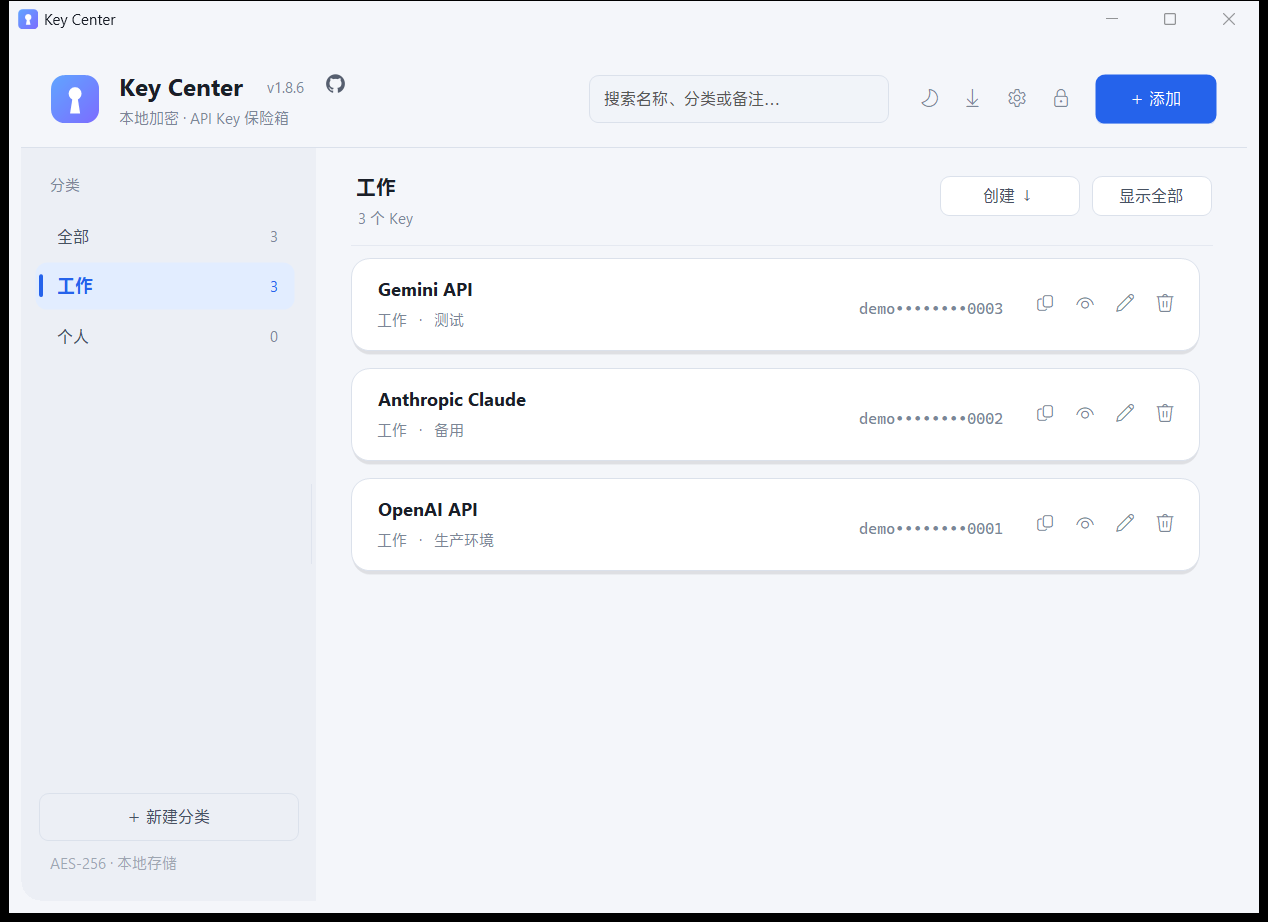
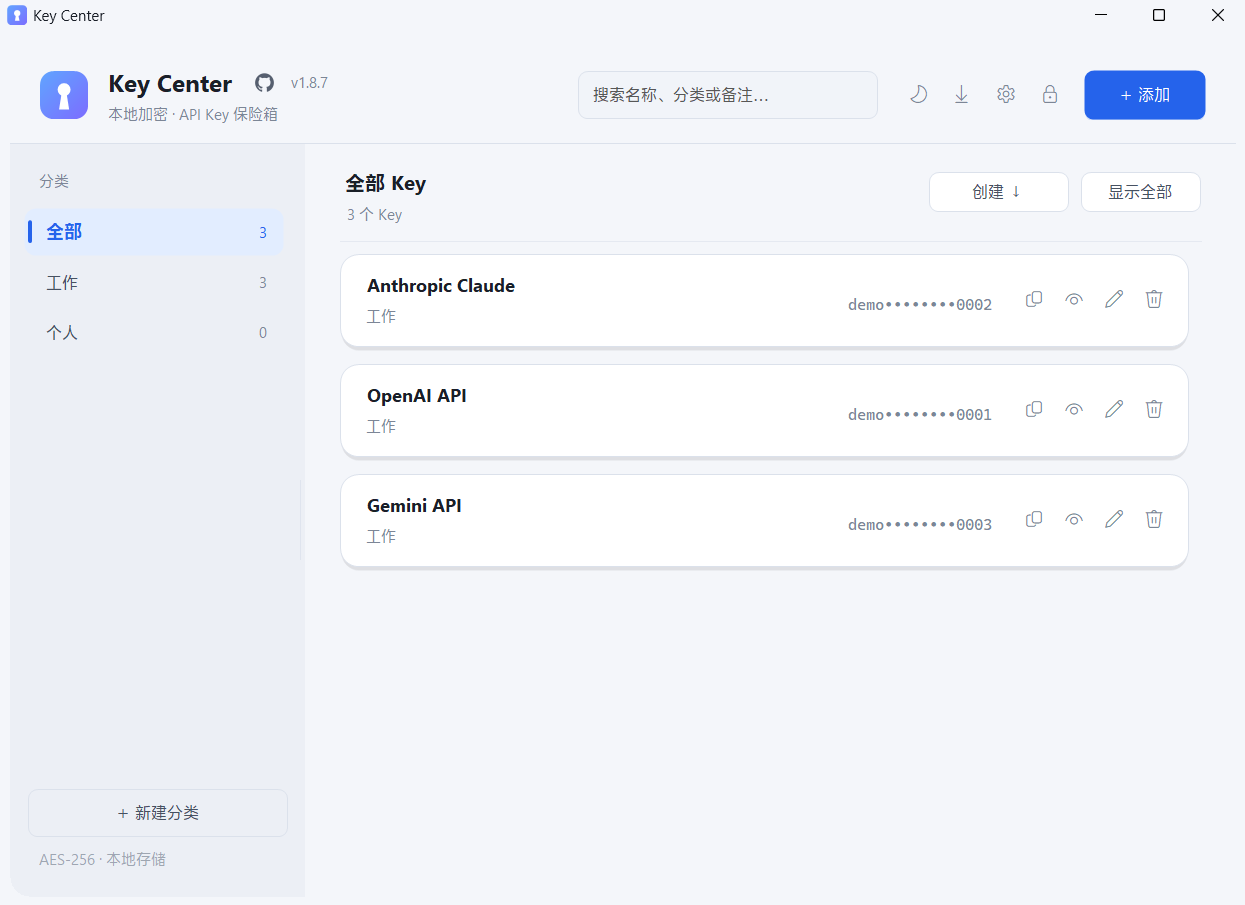
release: prepare 1.8.7 (dialog stability, header alignment, docs)

diff --git a/Dialogs.cs b/Dialogs.cs
@@ -176,6 +176,16 @@ namespace KeyCenter
         {
             // 由 UpdateLayeredWindow 负责绘制
         }
+
+        protected override void Dispose(bool disposing)
+        {
+            if (disposing && canvas != null)
+            {
+                canvas.Dispose();
+                canvas = null;
+            }
+            base.Dispose(disposing);
+        }
     }
 
     internal class DarkForm : Form
@@ -335,24 +345,6 @@ namespace KeyCenter
                 }
                 return cp;
             }
-        }
-
-        [System.Runtime.InteropServices.StructLayout(System.Runtime.InteropServices.LayoutKind.Sequential)]
-        private struct RECT
-        {
-            public int Left;
-            public int Top;
-            public int Right;
-            public int Bottom;
-        }
-
-        [System.Runtime.InteropServices.StructLayout(System.Runtime.InteropServices.LayoutKind.Sequential)]
-        private struct NCCALCSIZE_PARAMS
-        {
-            public RECT rgrc0;
-            public RECT rgrc1;
-            public RECT rgrc2;
-            public IntPtr lppos;
         }
 
         protected override void WndProc(ref Message m)

diff --git a/MainForm.cs b/MainForm.cs
@@ -939,9 +939,15 @@ namespace KeyCenter
             logo.SetBounds(T.Px(24), logoY, T.Px(38), T.Px(38));
             int titleW = TextRenderer.MeasureText(lblApp.Text, lblApp.Font).Width + T.Px(2);
             lblApp.SetBounds(T.Px(74), blockTop, titleW, T.Px(32));
-            int versionX = lblApp.Right + T.Px(8);
-            lblVersion.SetBounds(versionX, blockTop + T.Px(8), T.Px(46), T.Px(18));
-            githubBtn.SetBounds(versionX + T.Px(48), blockTop + T.Px(4), T.Px(20), T.Px(20));
+
+            // GitHub 图标紧跟标题，版本号放在图标右侧；三者按标题垂直中心对齐。
+            int titleCenterY = blockTop + T.Px(16);
+            int ghSize = T.Px(20);
+            int ghX = lblApp.Right + T.Px(8);
+            githubBtn.SetBounds(ghX, titleCenterY - ghSize / 2, ghSize, ghSize);
+            int versionH = T.Px(18);
+            int versionX = githubBtn.Right + T.Px(8);
+            lblVersion.SetBounds(versionX, titleCenterY - versionH / 2, T.Px(46), versionH);
             lblSub.SetBounds(T.Px(75), blockTop + T.Px(33), T.Px(330), T.Px(18));
 
             int right = header.Width - T.Px(24);

diff --git a/Program.cs b/Program.cs
@@ -11,8 +11,8 @@ using System.Windows.Forms;
 [assembly: AssemblyDescription("便携式 API Key 保险箱")]
 [assembly: AssemblyProduct("Key Center")]
 [assembly: AssemblyCopyright("Key Center")]
-[assembly: AssemblyVersion("1.8.6.0")]
-[assembly: AssemblyFileVersion("1.8.6.0")]
+[assembly: AssemblyVersion("1.8.7.0")]
+[assembly: AssemblyFileVersion("1.8.7.0")]
 
 namespace KeyCenter
 {

diff --git a/I18n.cs b/I18n.cs
@@ -21,7 +21,7 @@ namespace KeyCenter
                     Version v = Assembly.GetExecutingAssembly().GetName().Version;
                     return "v" + v.Major + "." + v.Minor + "." + v.Build;
                 }
-                catch (Exception) { return "v1.8.6"; }
+                catch (Exception) { return "v1.8.7"; }
             }
         }
 

diff --git a/CHANGELOG.md b/CHANGELOG.md
@@ -3,6 +3,20 @@
 记录每个公开版本的变更，最新版本在最上方。版本号遵循 [语义化版本](https://semver.org/lang/zh-CN/)。
 Every public release, newest first. Versioning follows [Semantic Versioning](https://semver.org/).
 
+## 1.8.7 — 弹窗稳定性与细节修复 / Dialog stability & detail fixes
+
+### 更新内容：
+
+- 弹窗失焦稳定性：修复部分弹窗失焦后出现系统原生标题栏、灰色边框和反复闪烁的问题；Windows 11 使用原生 DWM 框架、圆角与阴影，Windows 10 保留兼容回退；
+- 圆角与阴影收口：移除 Windows 11 下弹窗 Region 裁剪与独立阴影窗口的叠加，消除圆角之外的直角底残留和矩形阴影底；
+- 列表细节：修复 Key 详情卡片右侧被滚动条遮挡、卡片圆角外白色底残留，以及关闭弹窗后列表卡片残留蓝色悬停边框的问题。
+
+### Highlights
+
+- Dialog focus stability: Fixed dialogs showing a native system title bar, gray frame and repeated flicker after losing focus; Windows 11 now uses the native DWM frame, rounded corners and shadow, with a Windows 10 compatibility fallback.
+- Rounded corners and shadow cleanup: Removed the overlapping Win11 region clipping and standalone shadow window, eliminating square residues outside rounded corners and rectangular shadow backgrounds.
+- List details: Fixed the scrollbar covering the right side of Key detail cards, white square residues outside card corners, and stuck blue hover borders on list cards after closing dialogs.
+
 ## 1.8.6 — 窗口质感与交互细节 / Window polish & interaction details
 
 ### 更新内容：

diff --git a/README.en.md b/README.en.md
@@ -81,7 +81,7 @@ No account, no cloud sync, no installer, no background service. One portable exe
 
 ### Version and project link
 
-- The current version (for example `v1.8.6`) and the official GitHub icon appear to the right of the app name;
+- The current version (for example `v1.8.7`) and the official GitHub icon appear to the right of the app name;
 - Click the version to open the [Releases](https://github.com/verneuil/KeyCenter/releases) page;
 - Click the GitHub icon to open the repository — useful for source, issues and downloads.
 

diff --git a/README.md b/README.md
@@ -81,7 +81,7 @@ Key Center 只做一件事：把你散落在各个软件、项目和终端里的
 
 ### 版本与项目入口
 
-- 主界面软件名称右侧显示当前版本号（例如 `v1.8.6`）和 GitHub 官方图标；
+- 主界面软件名称右侧显示当前版本号（例如 `v1.8.7`）和 GitHub 官方图标；
 - 点击版本号打开 [Releases](https://github.com/verneuil/KeyCenter/releases) 页面，查看最新版本和发布记录；
 - 点击 GitHub 图标打开仓库首页，方便查看源码、反馈问题和下载。
 

diff --git a/tests/ui/README.md b/tests/ui/README.md
@@ -39,8 +39,8 @@ try {
     $edits = Get-KcChildWindows -Hwnd $win.Handle |
         Where-Object { $_.Class -match 'EDIT' }
     if ($edits.Count -ge 2) {
-        Set-KcText -Hwnd $edits[0].Handle -Text '235711'
-        Set-KcText -Hwnd $edits[1].Handle -Text '235711'
+        Set-KcText -Hwnd $edits[0].Handle -Text 'test-password-123'
+        Set-KcText -Hwnd $edits[1].Handle -Text 'test-password-123'
     }
 
     # 按文字找按钮并点击
